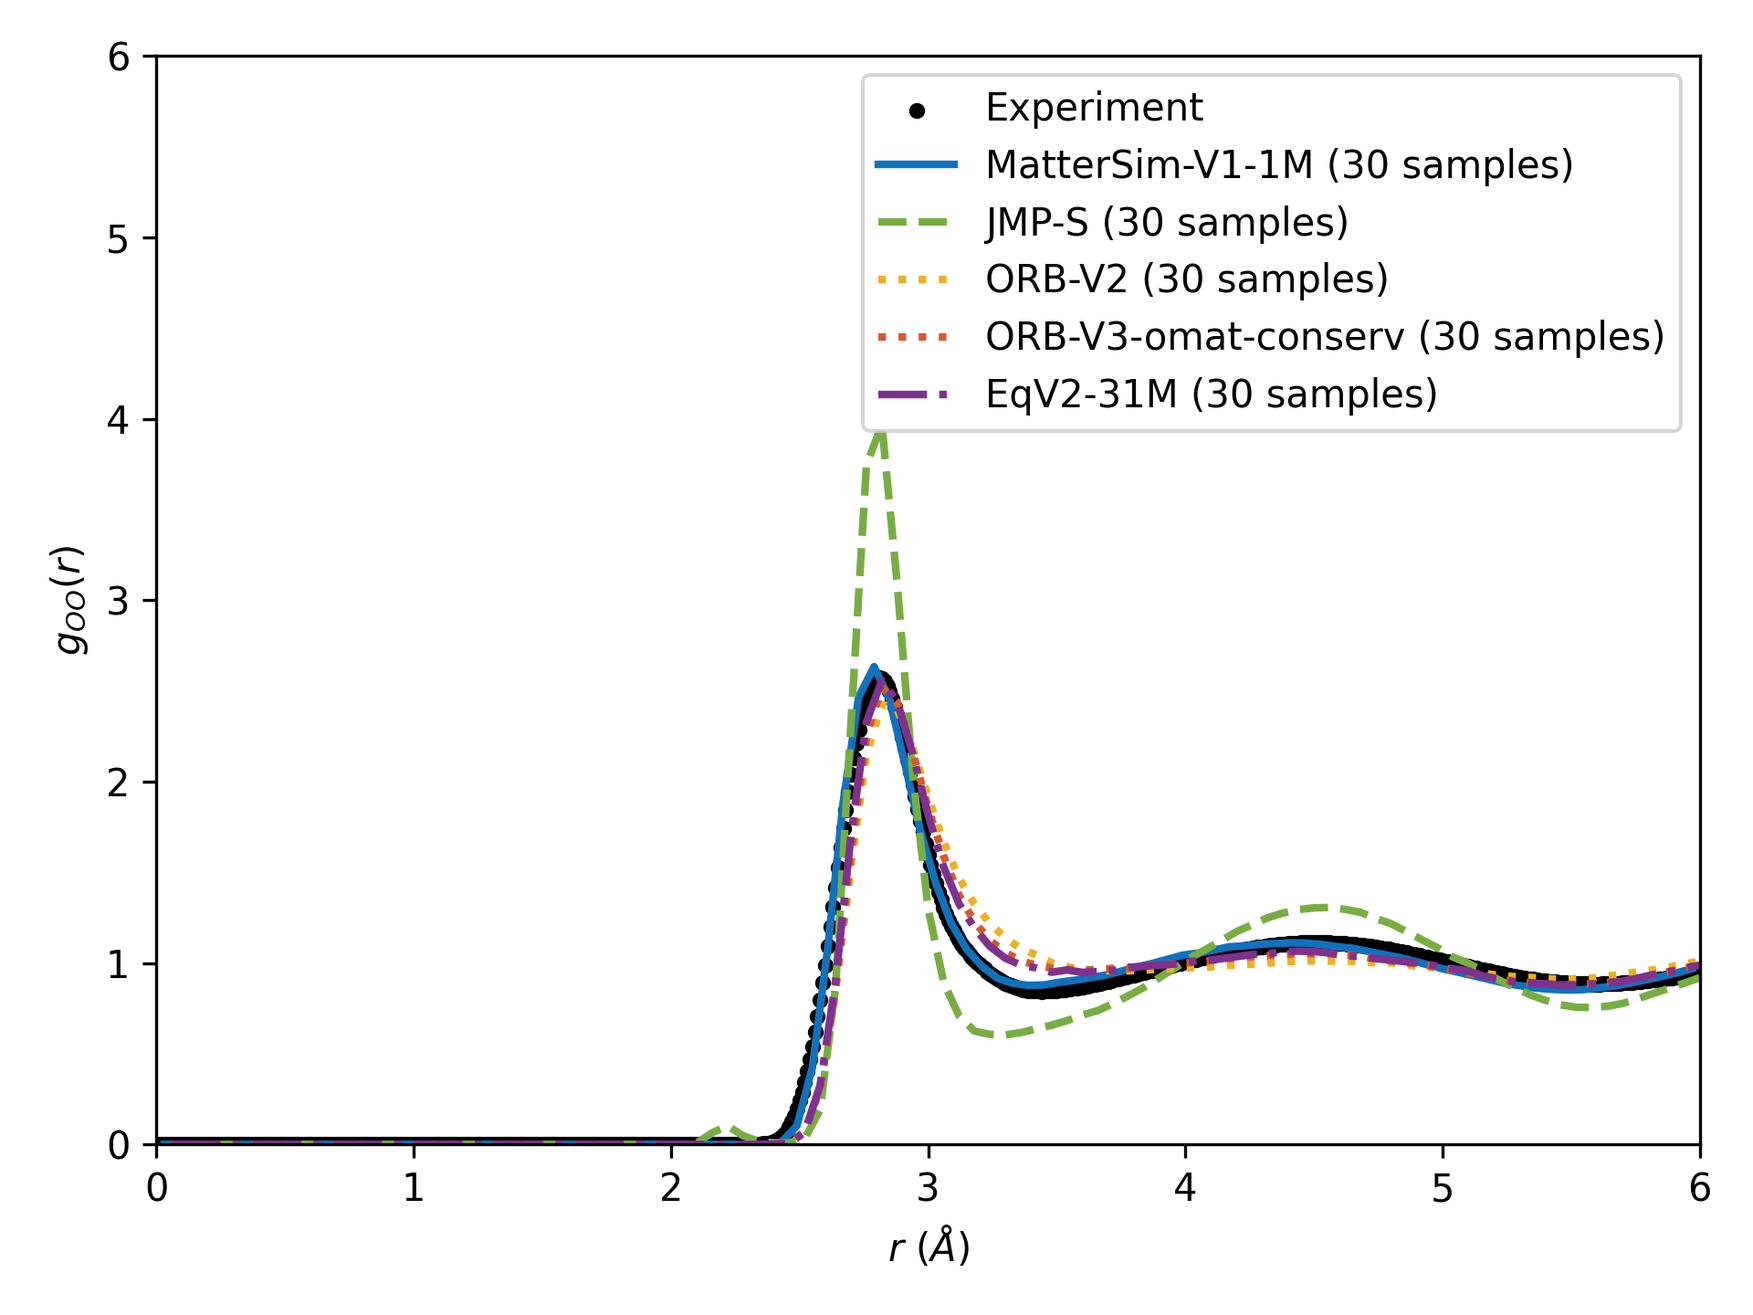
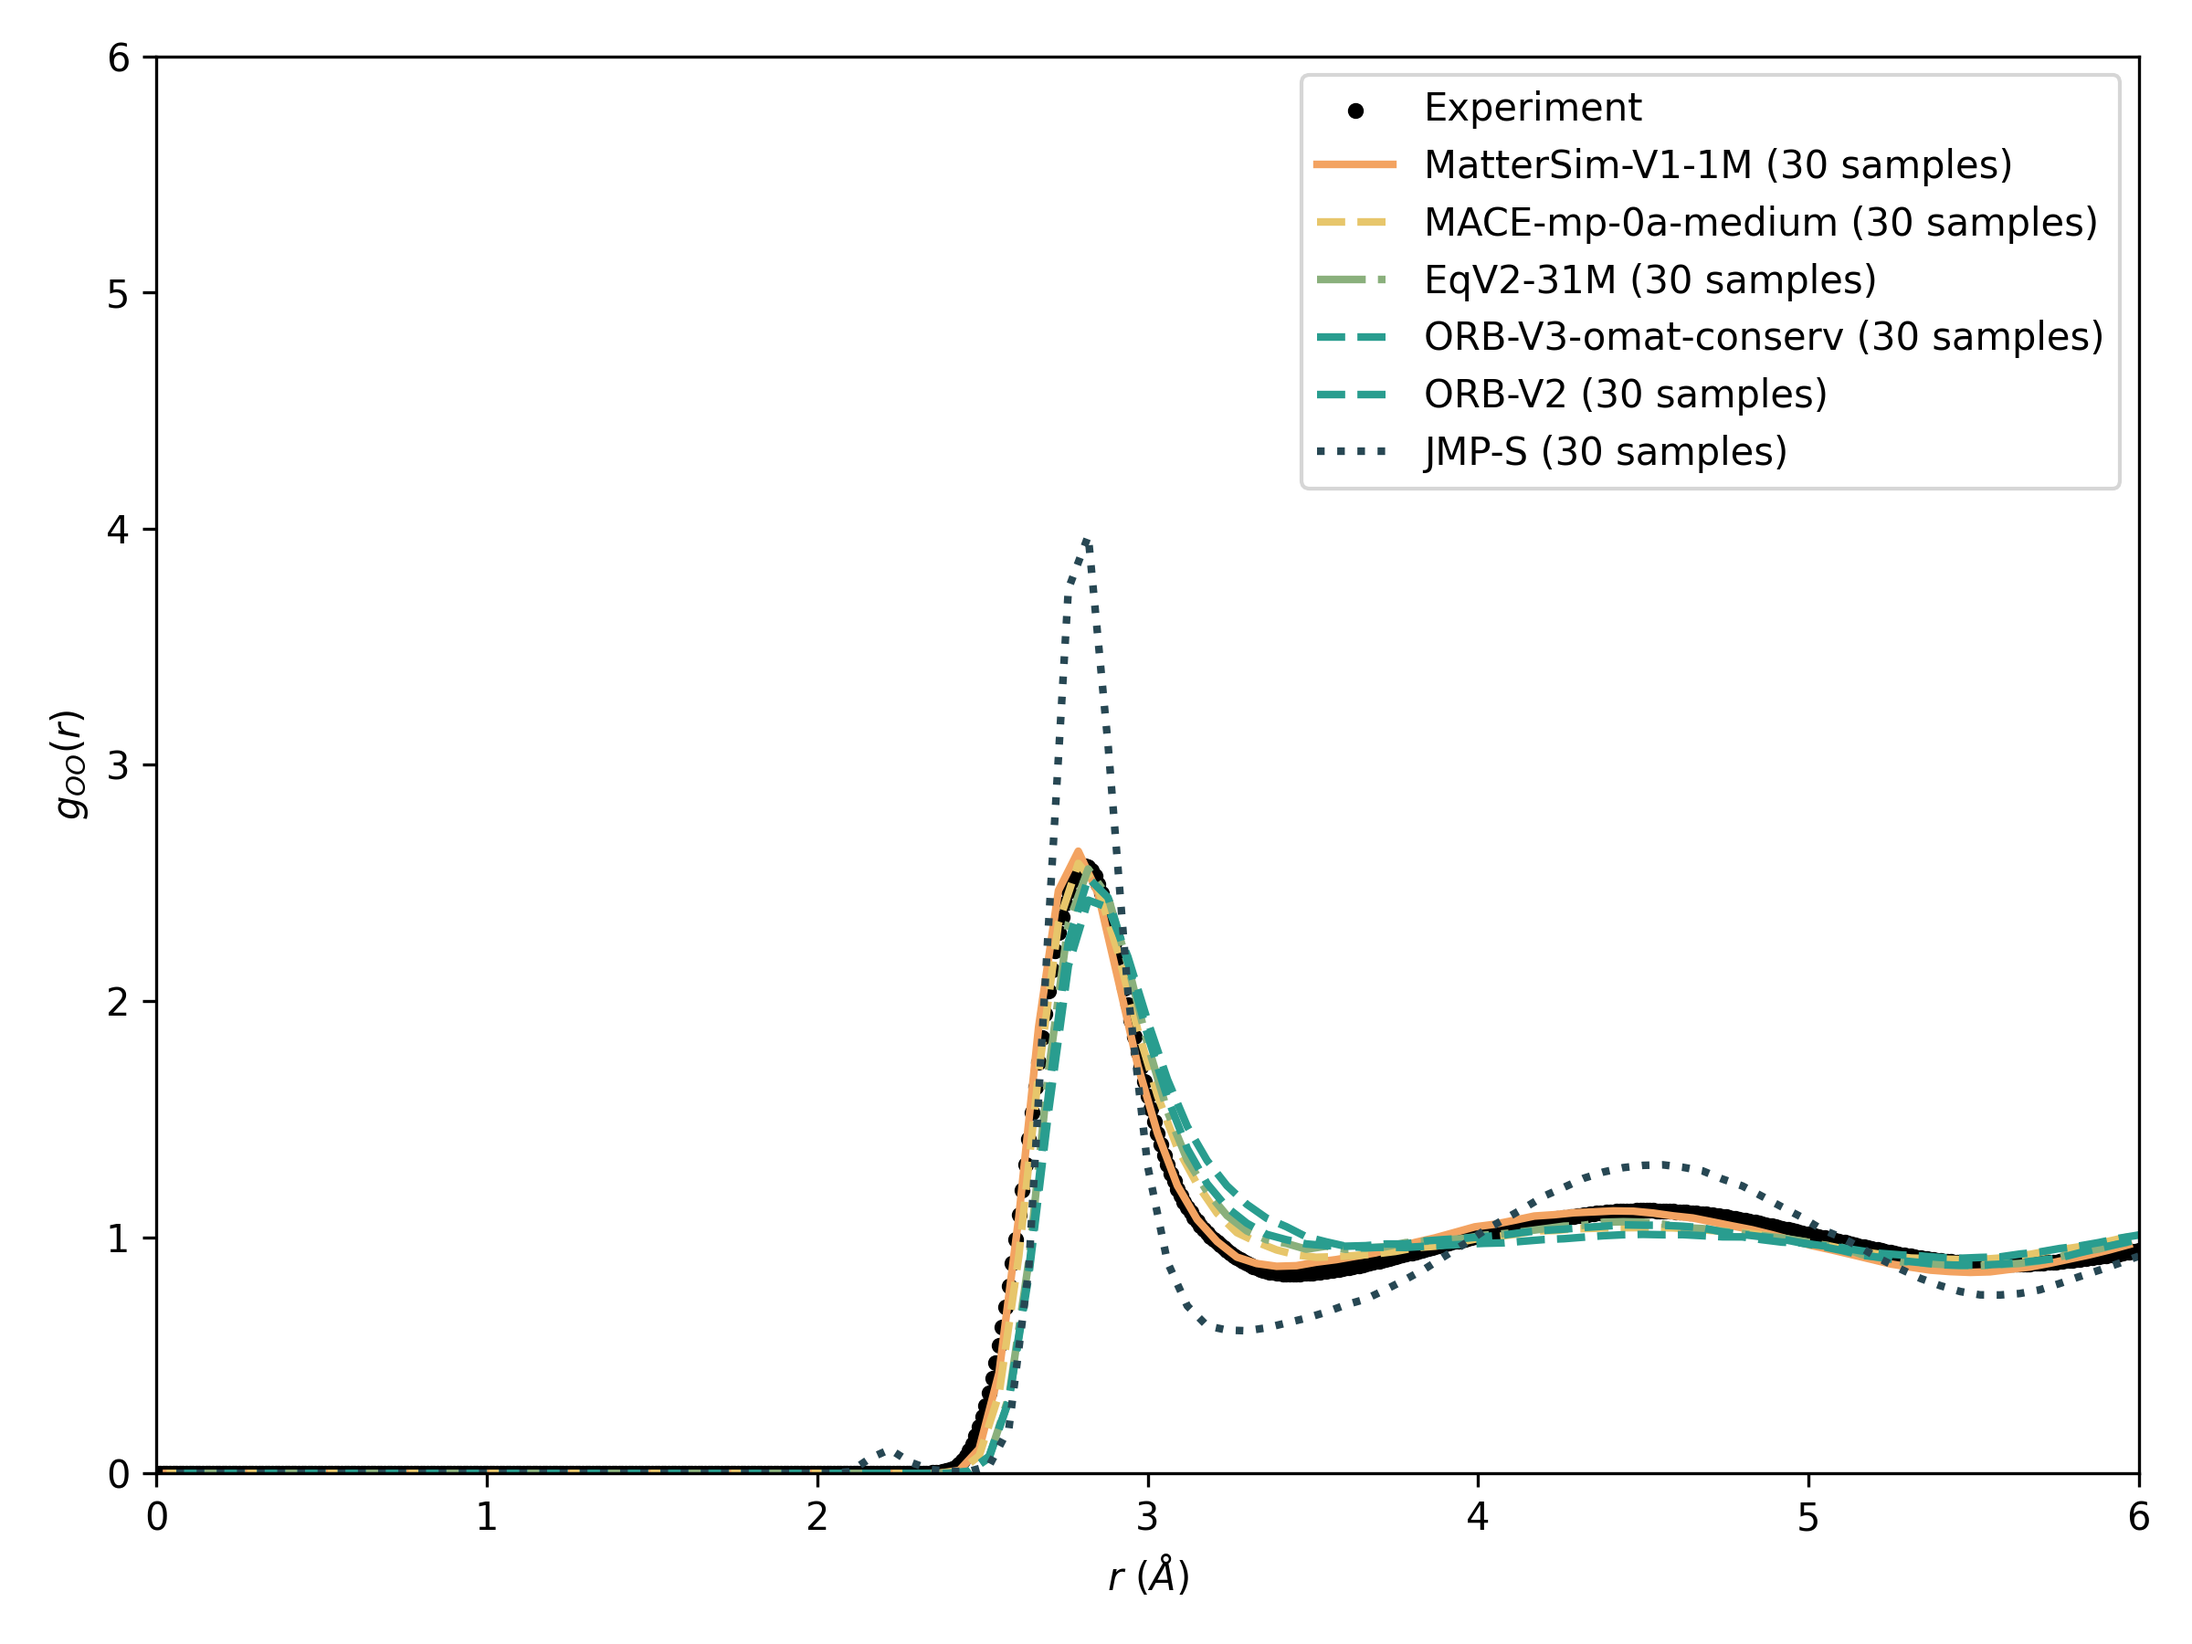
5/29

Changed region(s): [[0.0312, 0.0312, 1.0, 0.9688], [0.5, 0.0938, 0.5312, 0.1875]]

diff --git a/examples/water-thermodynamics/draw_rdf_plots.py b/examples/water-thermodynamics/draw_rdf_plots.py
@@ -35,28 +35,31 @@ gOO_orbv3_data = np.load("./results/orbv3_con_omat-refill-g_OO(r).npz")
 gOO_orbv3_r_values = gOO_orbv3_data["rdf_x"]
 gOO_orbv3_g_values = gOO_orbv3_data["rdf_y"]
 
-# colors = [
-#     "#EA8379",  # MatterSim-V1-1M
-#     "#7DAEE0",  # JMP-S
-#     "#B395BD",  # ORB-V2
-#     "#B395BD",  # ORB-V3
-#     "#1B7C3D",  # EqV2-31M
-# ]
+gOO_mace_medium_data = np.load("./results/mace_medium-30-refill-g_OO(r).npz")
+gOO_mace_medium_r_values = gOO_mace_medium_data["rdf_x"]
+gOO_mace_medium_r_values = gOO_mace_medium_r_values - 0.03
+gOO_mace_medium_g_values = gOO_mace_medium_data["rdf_y"]
+
 
 colors = [
-    "#1072bd",  # MatterSim-V1-1M
-    "#77ae43",  # JMP-S
-    "#edb021",  # ORB-V2
-    "#d7592c",  # ORB-V3
-    "#7f318d",  # EqV2-31M
+    "#274753",
+    "#297270",
+    "#299d8f",
+    "#8ab07c",
+    "#e7c66b",
+    "#f3a361",
 ]
 
+colors.reverse()
+
+plt.figure(figsize=(8, 6))
 plt.scatter(gOO_benchmark_r_values, gOO_benchmark_g_values, label="Experiment", color="black", marker="o", s=10)
 plt.plot(gOO_mattersim_r_values, gOO_mattersim_g_values, label="MatterSim-V1-1M (30 samples)", color=colors[0], linewidth=2)
-plt.plot(gOO_jmp_r_values, gOO_jmp_g_values, label="JMP-S (30 samples)", color=colors[1], linestyle="dashed", linewidth=2)
-plt.plot(gOO_orb_r_values, gOO_orb_g_values, label="ORB-V2 (30 samples)", color=colors[2], linestyle=":", linewidth=2)
-plt.plot(gOO_orbv3_r_values, gOO_orbv3_g_values, label="ORB-V3-omat-conserv (30 samples)", color=colors[3], linestyle=":", linewidth=2)
-plt.plot(gOO_eqv2_r_values, gOO_eqv2_g_values, label="EqV2-31M (30 samples)", color=colors[4], linestyle="-.", linewidth=2)
+plt.plot(gOO_mace_medium_r_values, gOO_mace_medium_g_values, label="MACE-mp-0a-medium (30 samples)", color=colors[1], linestyle="--", linewidth=2)
+plt.plot(gOO_eqv2_r_values, gOO_eqv2_g_values, label="EqV2-31M (30 samples)", color=colors[2], linestyle="-.", linewidth=2)
+plt.plot(gOO_orbv3_r_values, gOO_orbv3_g_values, label="ORB-V3-omat-conserv (30 samples)", color=colors[3], linestyle="dashed", linewidth=2)
+plt.plot(gOO_orb_r_values, gOO_orb_g_values, label="ORB-V2 (30 samples)", color=colors[4], linestyle="dashed", linewidth=2)
+plt.plot(gOO_jmp_r_values, gOO_jmp_g_values, label="JMP-S (30 samples)", color=colors[5], linestyle=":", linewidth=2)
 # plt.plot(gOO_mattersim_r_values, gOO_mattersim_mpx2_g_values, label="MatterSim-V1-1M-MPX2 (30 samples)", color="#7DAEE0", linestyle="dotted", linewidth=2)
 
 plt.xlabel(r"$r$ ($\AA$)")

diff --git a/src/mattertune/wrappers/property_predictor.py b/src/mattertune/wrappers/property_predictor.py
@@ -101,20 +101,11 @@ class MatterTunePropertyPredictor:
             self.lightning_module, dataloader, return_predictions=True
         )
         assert predictions is not None, "Predictions should not be None. Report a bug."
-        predictions = cast(list[dict[str, torch.Tensor]], predictions)
-
+        predictions = cast(list[list[dict[str, torch.Tensor]]], predictions)
+        
         all_predictions = []
         for batch_preds in predictions:
-            if batch_size > 1:
-                first_tensor = next(iter(batch_preds.values()))
-                batch_size = len(first_tensor)
-                for idx in range(batch_size):
-                    pred_dict = {}
-                    for key, value in batch_preds.items():
-                        pred_dict[key] = torch.tensor(value[idx])
-                    all_predictions.append(pred_dict)
-            else:
-                all_predictions.append(batch_preds)
+            all_predictions.extend(batch_preds)
         assert len(all_predictions) == len(
             atoms_list
         ), "Mismatch in predictions length."

diff --git a/src/mattertune/backbones/orb/model.py b/src/mattertune/backbones/orb/model.py
@@ -108,7 +108,7 @@ class ORBBackboneModule(
                 EnergyHeadPoolAfter,
                 ForceHead,
                 StressHead,
-                GraphHead,
+                GraphHeadPoolAfter,
             )
 
         self.include_forces = False
@@ -166,7 +166,7 @@ class ORBBackboneModule(
                         "Pretrained model does not support general graph properties, only energy, forces, and stresses are supported."
                     )
                 else:
-                    return GraphHead(
+                    return GraphHeadPoolAfter(
                         latent_dim=256,
                         num_mlp_layers=1,
                         mlp_hidden_dim=256,
@@ -175,6 +175,7 @@ class ORBBackboneModule(
                             dim=1,
                             domain="real",
                         ),
+                        node_aggregation=prop.reduction, # type: ignore[reportUnboundType] # noqa
                     )
             case _:
                 raise ValueError(
